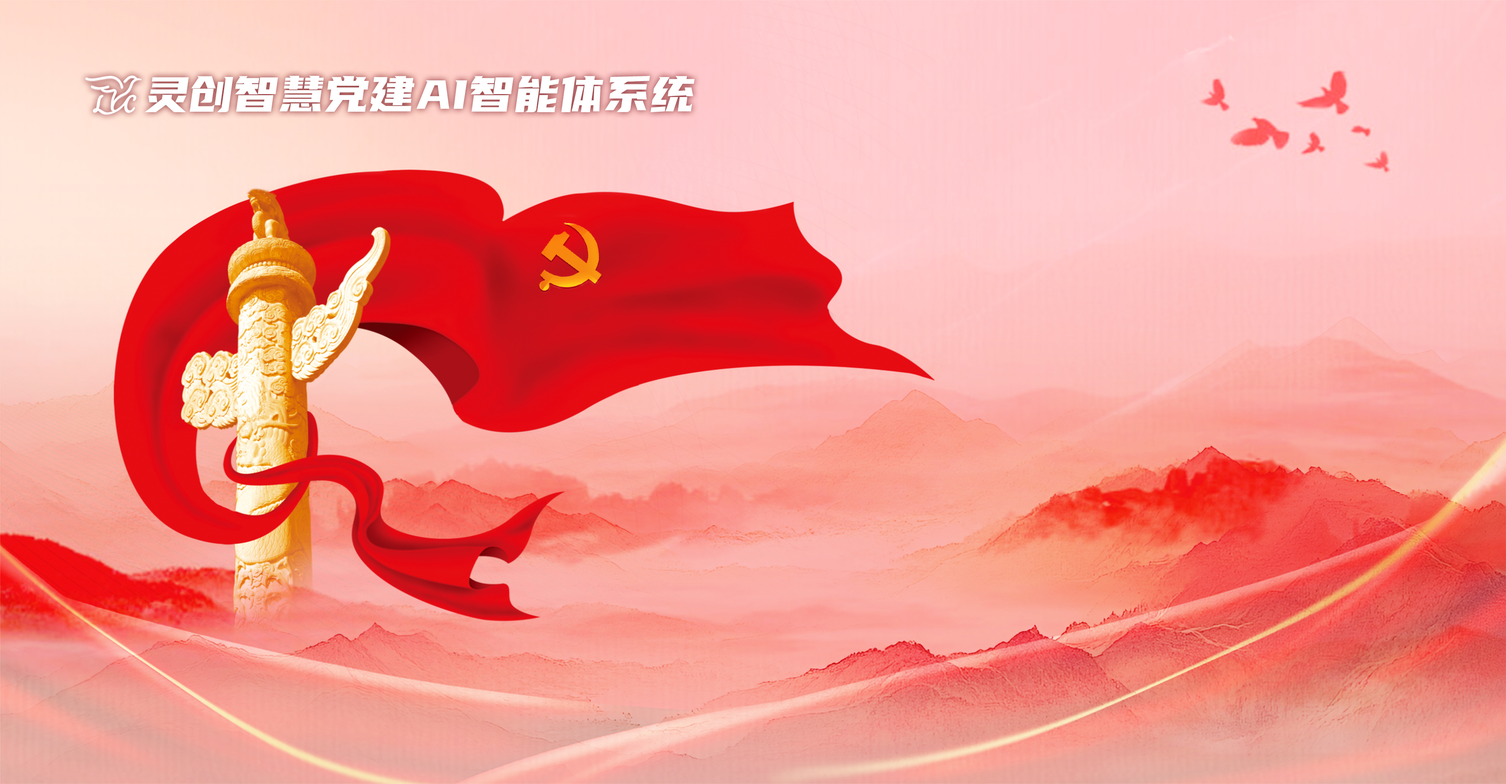
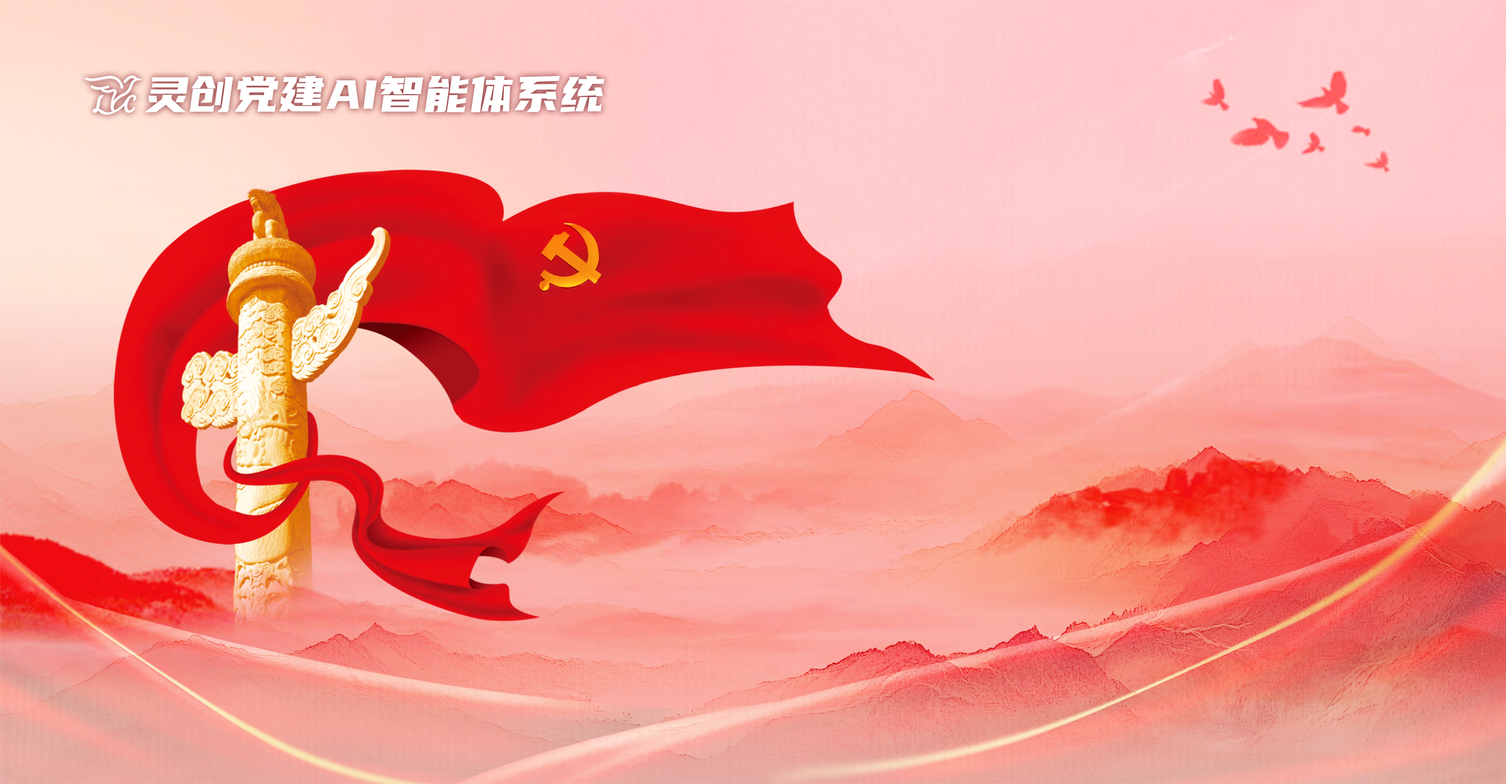
修改背景和系统标题文字

Changed region(s): [[0.1547, 0.0938, 0.4642, 0.1562]]

diff --git a/frontend-server/app/templates/home.html b/frontend-server/app/templates/home.html
@@ -640,9 +640,9 @@
     <!-- 顶部导航栏 -->
     <nav class="top-nav">
         <a href="#" class="logo-link">
-            <img src="../static/img/logo-lc-white.png" alt="智慧党建AI智能体系统" class="logo-img" style="height: 40px; margin: 5px 5px 0 0;">
+            <img src="../static/img/logo-lc-white.png" alt="灵创党建AI智能体系统" class="logo-img" style="height: 40px; margin: 5px 5px 0 0;">
         </a>
-        <div class="logo">党建AI智能体系统</div>
+        <div class="logo">灵创党建AI智能体系统</div>
         <ul class="nav-menu">
             <li><a href="#">未读消息</a></li>
             <li><a href="#">待办事项</a></li>
